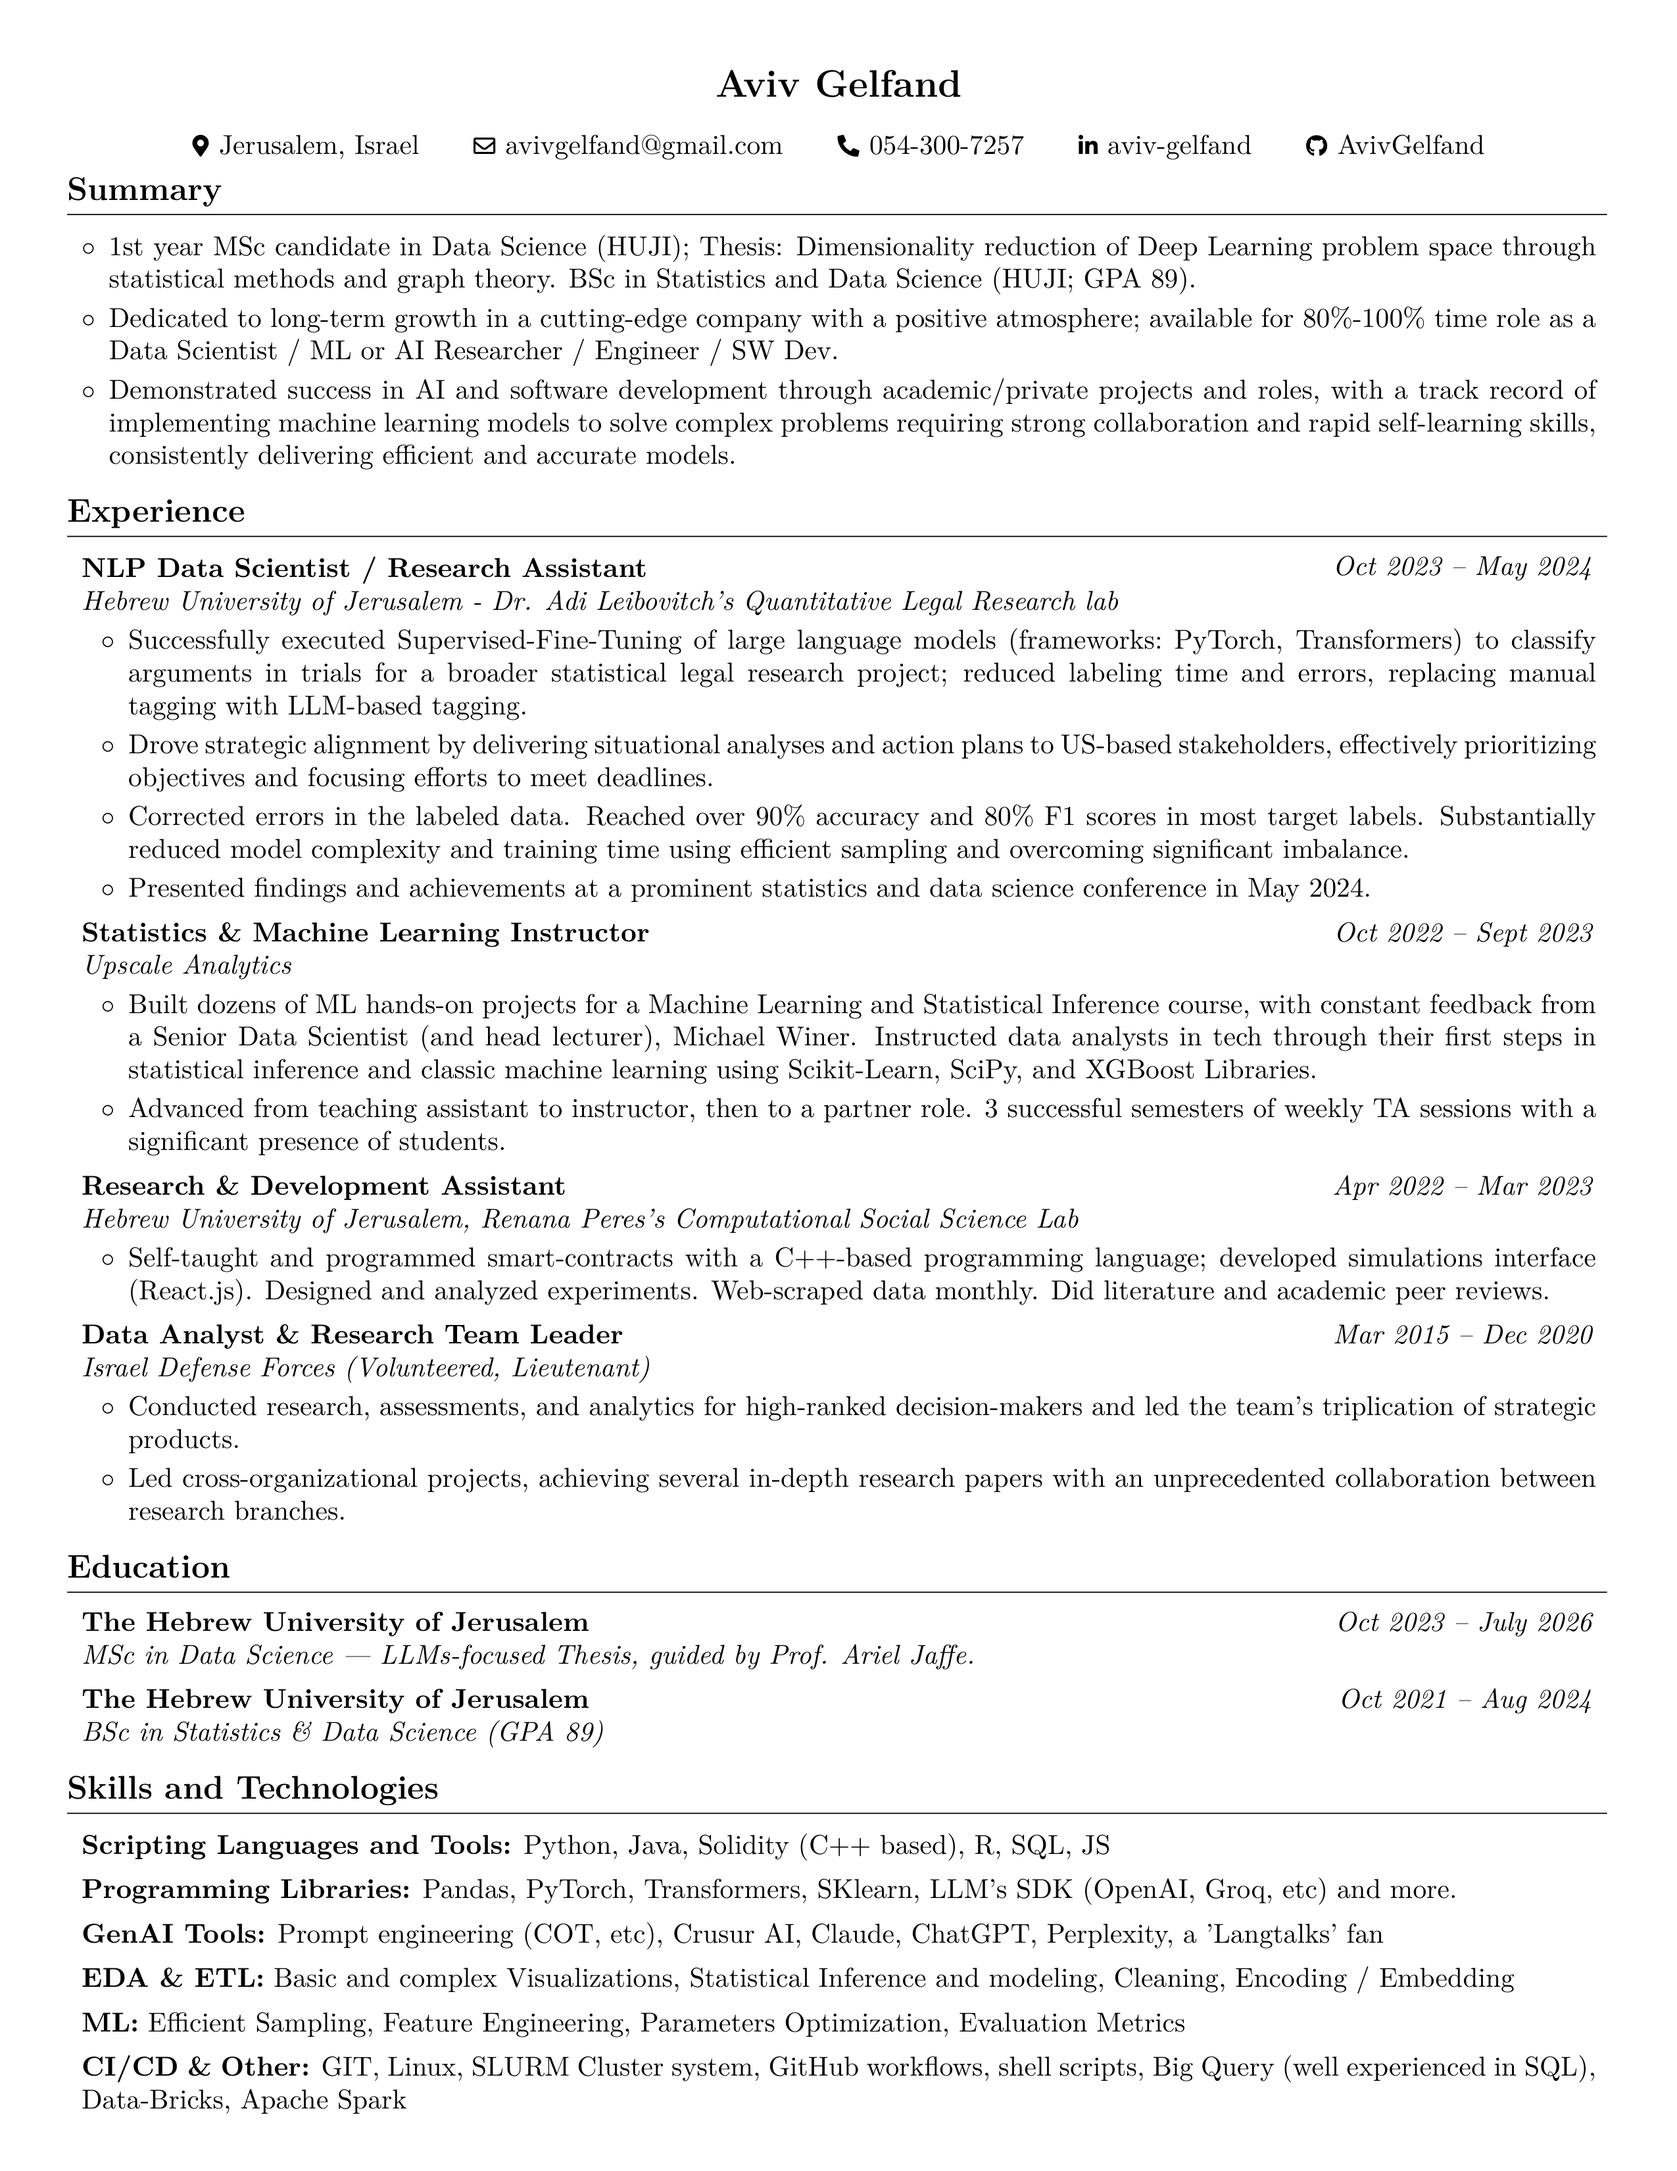
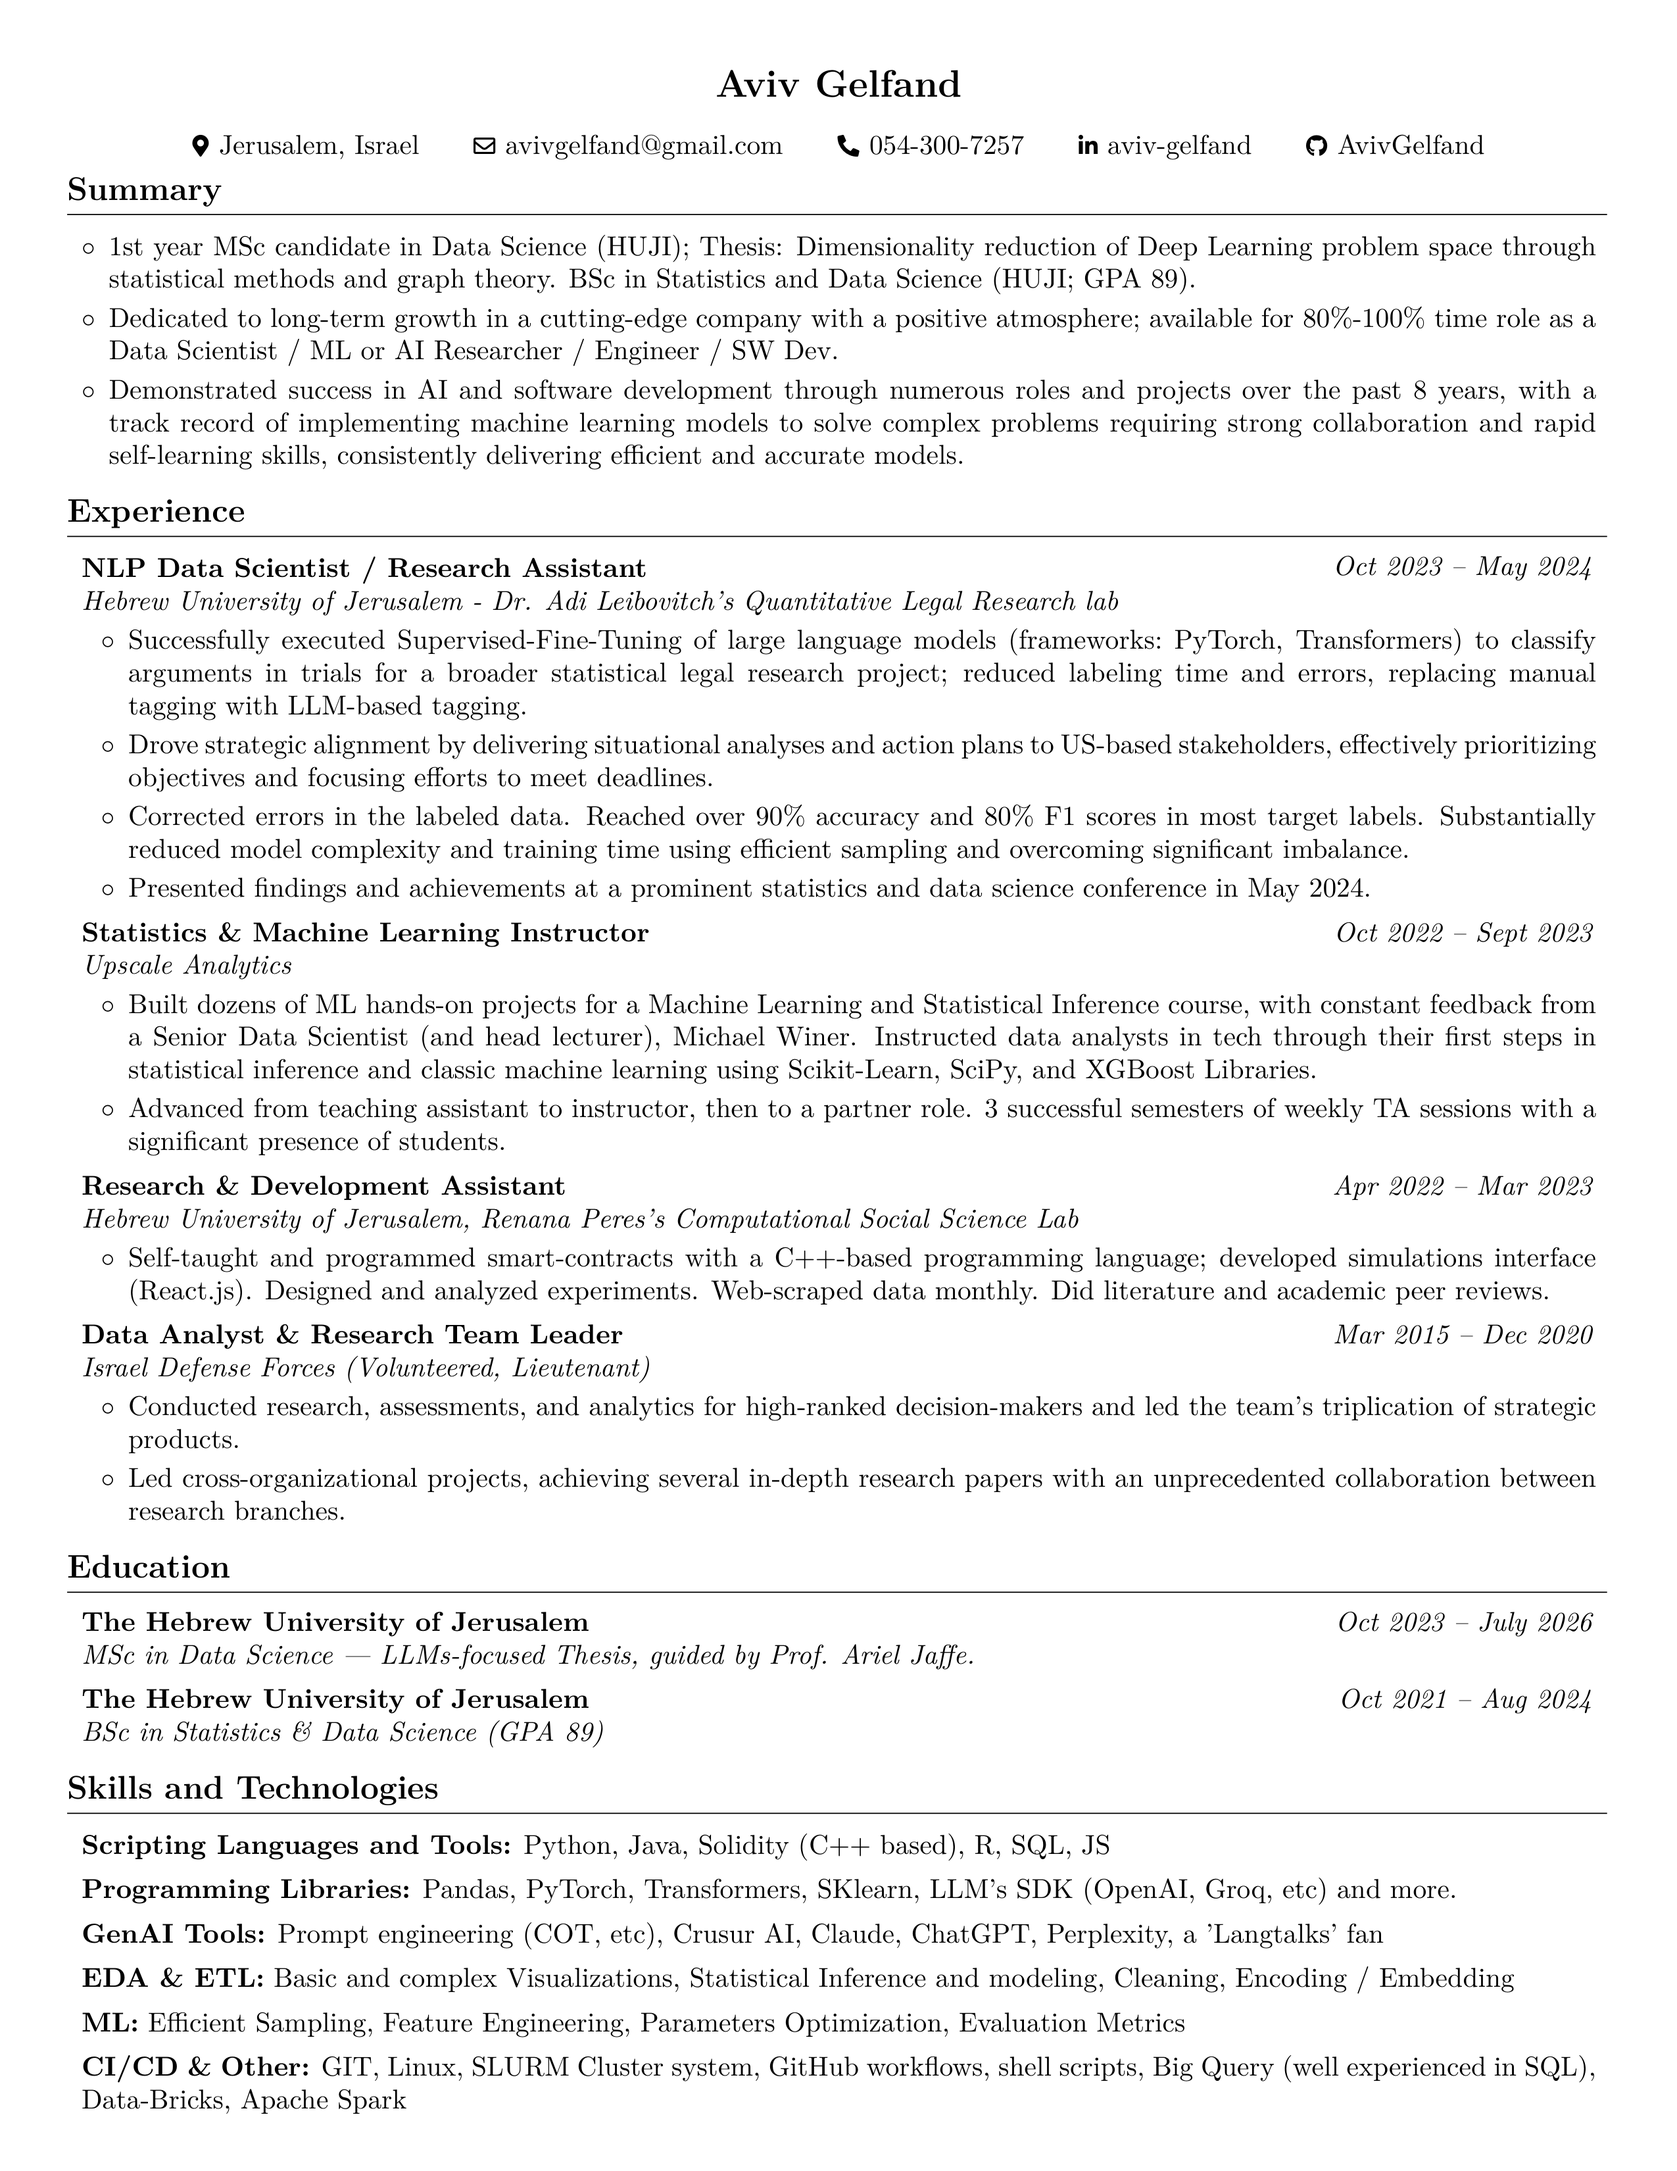
Render the latest CV

Changed region(s): [[0.062, 0.1561, 0.8675, 0.2185], [0.8984, 0.1873, 0.9604, 0.2185], [0.8675, 0.1561, 0.8984, 0.1873]]

diff --git a/Aviv_Gelfand_CV.html b/Aviv_Gelfand_CV.html
@@ -44,7 +44,7 @@
         <ul>
         <li>1st year MSc candidate in Data Science (HUJI); Thesis: Dimensionality reduction of Deep Learning problem space through statistical methods and graph theory. BSc in Statistics and Data Science (HUJI; GPA 89).</li>
         <li>Dedicated to long-term growth in a cutting-edge company with a positive atmosphere; available for 80%-100% time role as a Data Scientist / ML or AI Researcher / Engineer / SW Dev.</li>
-        <li>Demonstrated success in AI and software development through academic/private projects and roles, with a track record of implementing machine learning models to solve complex problems requiring strong collaboration and rapid self-learning skills, consistently delivering efficient and accurate models.</li>
+        <li>Demonstrated success in AI and software development through numerous roles and projects over the past 8 years, with a track record of implementing machine learning models to solve complex problems requiring strong collaboration and rapid self-learning skills, consistently delivering efficient and accurate models.</li>
         </ul>
         <h1>Experience</h1>
         <h2>Hebrew University of Jerusalem - Dr. Adi Leibovitch's Quantitative Legal Research lab, NLP Data Scientist / Research Assistant</h2>

diff --git a/Aviv_Gelfand_CV.tex b/Aviv_Gelfand_CV.tex
@@ -185,7 +185,7 @@
 
         \item Dedicated to long-term growth in a cutting-edge company with a positive atmosphere; available for 80\%-100\% time role as a Data Scientist / ML or AI Researcher / Engineer / SW Dev.
 
-        \item Demonstrated success in AI and software development through academic/private projects and roles, with a track record of implementing machine learning models to solve complex problems requiring strong collaboration and rapid self-learning skills, consistently delivering efficient and accurate models.
+        \item Demonstrated success in AI and software development through numerous roles and projects over the past 8 years, with a track record of implementing machine learning models to solve complex problems requiring strong collaboration and rapid self-learning skills, consistently delivering efficient and accurate models.
 
 
         \end{highlightsforbulletentries}

diff --git a/README.md b/README.md
@@ -13,7 +13,7 @@
 
 - 1st year MSc candidate in Data Science (HUJI); Thesis: Dimensionality reduction of Deep Learning problem space through statistical methods and graph theory. BSc in Statistics and Data Science (HUJI; GPA 89).
 - Dedicated to long-term growth in a cutting-edge company with a positive atmosphere; available for 80%-100% time role as a Data Scientist / ML or AI Researcher / Engineer / SW Dev.
-- Demonstrated success in AI and software development through academic/private projects and roles, with a track record of implementing machine learning models to solve complex problems requiring strong collaboration and rapid self-learning skills, consistently delivering efficient and accurate models.
+- Demonstrated success in AI and software development through numerous roles and projects over the past 8 years, with a track record of implementing machine learning models to solve complex problems requiring strong collaboration and rapid self-learning skills, consistently delivering efficient and accurate models.
 # Experience
 
 ## Hebrew University of Jerusalem - Dr. Adi Leibovitch's Quantitative Legal Research lab, NLP Data Scientist / Research Assistant
